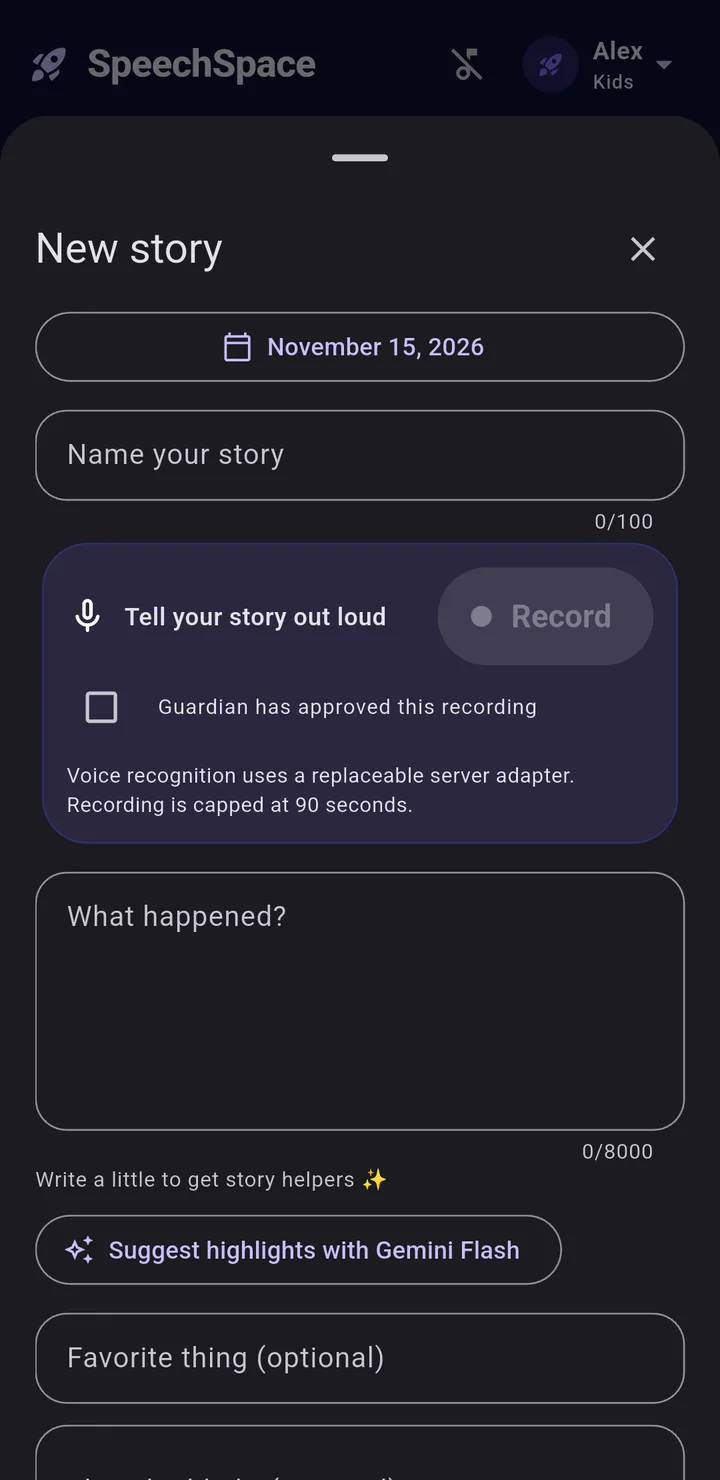
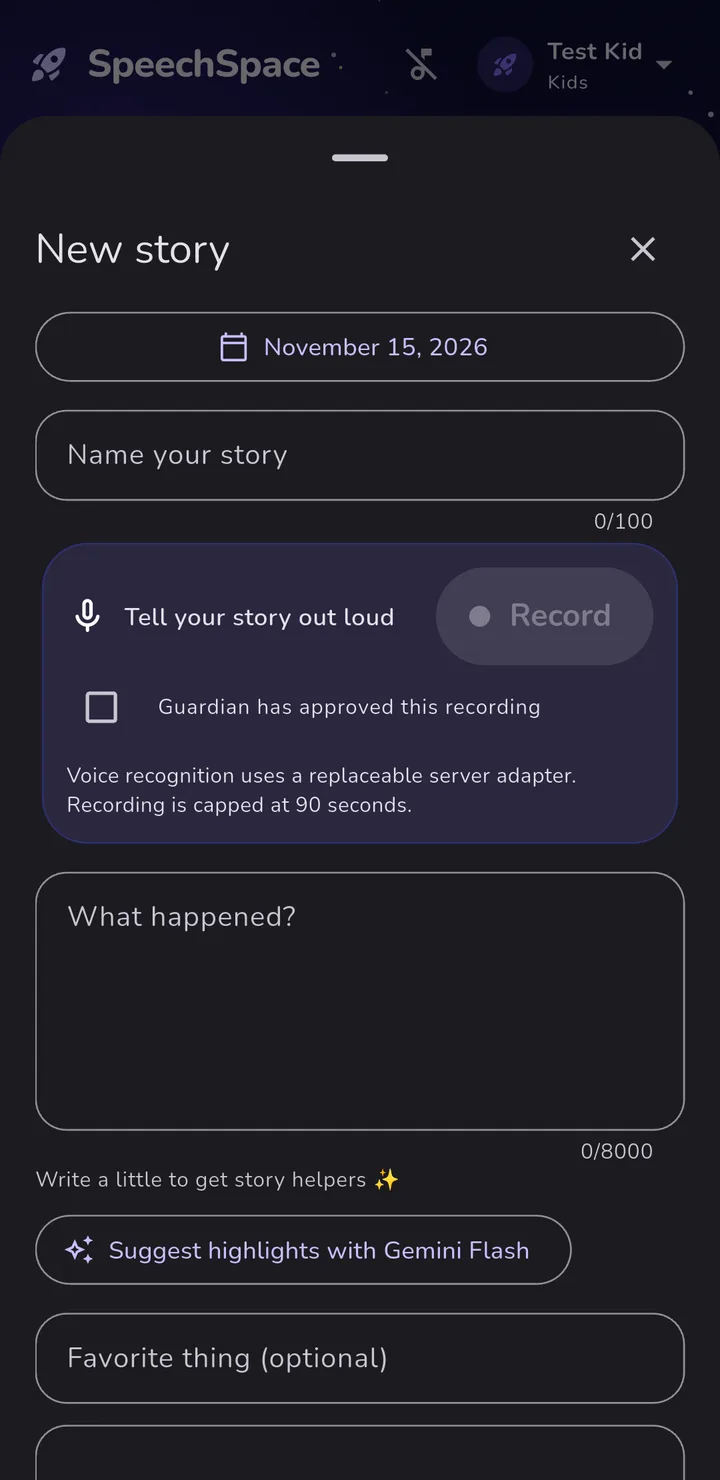
added new screenshots

diff --git a/docs/index.html b/docs/index.html
@@ -186,8 +186,8 @@
         </div>
       </div>
       <div class="phones">
-        <div class="phone left"><img src="img/profiles.webp" alt="Profile picker showing a Kids profile and an Adult profile" width="720" height="1480"></div>
-        <div class="phone right"><img src="img/starmap.webp" alt="Star map with stories connected by lines" width="720" height="1480"></div>
+        <div class="phone left"><img src="img/adult-today.webp" alt="Adult Today screen with entry counts and a New entry button" width="720" height="1480"></div>
+        <div class="phone right"><img src="img/starmap.webp" alt="Star map with stories and idea stars connected by lines" width="720" height="1480"></div>
         <div class="phone front"><img src="img/today.webp" alt="Today screen: Today's mission, what was the best part of your day, with a Tell my story button" width="720" height="1480"></div>
       </div>
     </div>
@@ -212,19 +212,19 @@
   <section id="features" class="stars">
     <div class="wrap">
       <div class="feature">
-        <div class="shot"><div class="phone"><img src="img/starmap.webp" alt="Star map with The big blue kite linked to Made a cardboard castle, plus suggested idea stars" width="720" height="1480" loading="lazy"></div></div>
+        <div class="shot"><div class="phone"><img src="img/starmap.webp" alt="Star map with the stories First friend and I went stargazing, plus idea stars like Look at the stars" width="720" height="1480" loading="lazy"></div></div>
         <div>
           <h3>Connect your stories like stars</h3>
-          <p>The star map lays out every story as a card you can drag, zoom, and link. Join the kite day to the castle day under "Family activities" and watch the constellation grow.</p>
-          <p>Tap "New ideas" for suggested idea stars, like trying another outdoors adventure. Keep the ones you like and dismiss the rest.</p>
+          <p>The star map lays out every story as a card you can drag, zoom, and link, so "First friend" and "I went stargazing" can sit side by side in the same constellation.</p>
+          <p>Tap "New ideas" for suggested idea stars, like looking at the stars tonight or writing more about a story. Keep the ones you like and dismiss the rest.</p>
         </div>
       </div>
 
       <div class="feature flip">
-        <div class="shot"><div class="card"><img src="img/calendar.webp" alt="November calendar with dots on the days that have stories" width="640" height="653" loading="lazy"></div></div>
+        <div class="shot"><div class="phone"><img src="img/mydays.webp" alt="My days: November calendar with counts for stories, active days, and milestones, and a star on the day with a story" width="720" height="1480" loading="lazy"></div></div>
         <div>
           <h3>See your month at a glance</h3>
-          <p>My days shows which days have stories, how many active days you've had, and the milestones a parent has marked.</p>
+          <p>My days puts a star on every day with a story and counts up your stories, active days, and the milestones a parent has marked.</p>
           <ul>
             <li>Switch between day, week, month, and year</li>
             <li>Tap any date to read what happened</li>
@@ -234,14 +234,6 @@
       </div>
 
       <div class="feature">
-        <div class="shot"><div class="phone"><img src="img/stories.webp" alt="Stories from before: The big blue kite, Favorite outfit, Made a cardboard castle, each with tags" width="720" height="1480" loading="lazy"></div></div>
-        <div>
-          <h3>Every story, ready to revisit</h3>
-          <p>Stories from before keeps each one with its date, a one-line highlight, and tags like Outdoors, Family, or Favorites, so it's easy to find the big blue kite again months later.</p>
-        </div>
-      </div>
-
-      <div class="feature flip">
         <div class="shot"><div class="phone"><img src="img/editor.webp" alt="New story form with a Record button and a Guardian has approved this recording checkbox" width="720" height="1480" loading="lazy"></div></div>
         <div>
           <h3>Grown-ups approve every recording</h3>
@@ -249,11 +241,19 @@
         </div>
       </div>
 
-      <div class="feature">
-        <div class="shot"><div class="phone"><img src="img/profiles.webp" alt="Who's using SpeechSpace? Profiles for Alex (Kids, Space) and Jordan (Adult, Indigo)" width="720" height="1480" loading="lazy"></div></div>
+      <div class="feature flip">
+        <div class="shot"><div class="phone"><img src="img/adult-today.webp" alt="Adult Today screen with counts for entries, days recorded, connections, and milestones, and a New entry button" width="720" height="1480" loading="lazy"></div></div>
         <div>
-          <h3>A space for everyone at home</h3>
-          <p>Each person gets their own profile and theme. Kids profiles get playful missions and a space look. Adult profiles get a calmer one.</p>
+          <h3>A calmer journal for grown-ups</h3>
+          <p>Adult profiles swap the rockets for a clean, light journal. Each day asks what stood out. Dictate or type a note, then tag it and link it to other entries later.</p>
+        </div>
+      </div>
+
+      <div class="feature">
+        <div class="shot"><div class="phone"><img src="img/activity.webp" alt="Activity screen with a year of days shown as squares, darker for more entries" width="720" height="1480" loading="lazy"></div></div>
+        <div>
+          <h3>A whole year in one view</h3>
+          <p>Activity shows every day of the last 365 as a square. The more entries you saved that day, the darker it gets. Tap a square to jump to that day.</p>
         </div>
       </div>
     </div>
